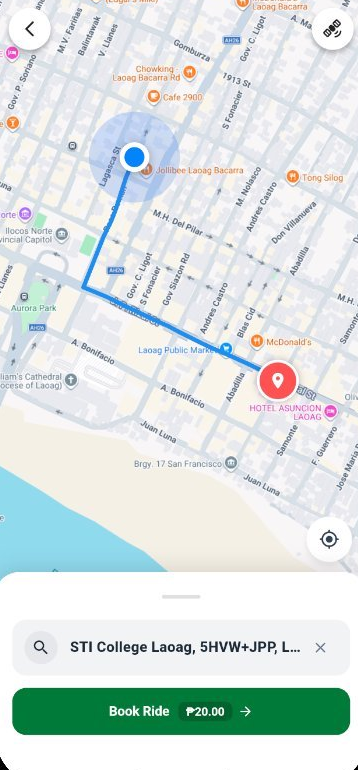
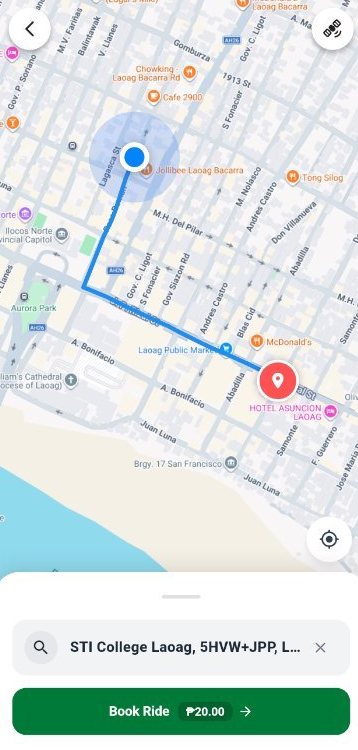
fix(onboarding): match Joyride Image 2 exact downward scoop curve, open-bottom phone submerged into white sheet, and clean edge-to-edge screens

diff --git a/mobile_client/lib/features/auth/views/welcome_onboarding_screen.dart b/mobile_client/lib/features/auth/views/welcome_onboarding_screen.dart
@@ -73,11 +73,12 @@ class _WelcomeOnboardingScreenState extends State<WelcomeOnboardingScreen> {
     final screenHeight = mediaQuery.size.height;
     final screenWidth = mediaQuery.size.width;
 
-    // Upward Dome Sheet height takes ~48-50% of the screen
-    final bottomSheetHeight = math.min(screenHeight * 0.49, 440.0);
-    // Phone mockup height extends down to overlap with the bottom sheet
-    final phoneHeight = math.min(screenHeight * 0.54, 490.0);
-    final phoneWidth = math.min(screenWidth * 0.86, 360.0);
+    // White bottom sheet takes ~50% of the screen height
+    final bottomSheetHeight = math.min(screenHeight * 0.50, 450.0);
+    // Phone mockup width is ~76% of screen width (matching Joyride 1:1)
+    final phoneWidth = math.min(screenWidth * 0.76, 320.0);
+    // Phone mockup extends downward behind the white scooped curve
+    final phoneHeight = math.min(screenHeight * 0.58, 510.0);
 
     return AnnotatedRegion<SystemUiOverlayStyle>(
       value: const SystemUiOverlayStyle(
@@ -89,9 +90,9 @@ class _WelcomeOnboardingScreenState extends State<WelcomeOnboardingScreen> {
         backgroundColor: _primaryGreen,
         body: Stack(
           children: [
-            // 1. Phone Mockup Layer (Positioned high, wide, dipping into the bottom sheet)
+            // 1. Phone Mockup Layer (Top hero, submerged into the white container)
             Positioned(
-              top: mediaQuery.padding.top + 16,
+              top: mediaQuery.padding.top + 8,
               left: (screenWidth - phoneWidth) / 2,
               width: phoneWidth,
               height: phoneHeight,
@@ -100,20 +101,20 @@ class _WelcomeOnboardingScreenState extends State<WelcomeOnboardingScreen> {
               ),
             ),
 
-            // 2. White Curved Dome Sheet (Arches UP in the center, overlapping the bottom of the phone)
+            // 2. White Container with Downward Dipping Scoop Curve (Joyride Image 2)
             Positioned(
               left: 0,
               right: 0,
               bottom: 0,
               height: bottomSheetHeight,
               child: ClipPath(
-                clipper: const _JoyrideWhiteDomeClipper(),
+                clipper: const _JoyrideWhiteScoopClipper(),
                 child: Container(
                   color: Colors.white,
                   child: SafeArea(
                     top: false,
                     child: Padding(
-                      padding: const EdgeInsets.fromLTRB(28, 42, 28, 20),
+                      padding: const EdgeInsets.fromLTRB(28, 48, 28, 24),
                       child: Column(
                         children: [
                           // PageView Content (Centered Title & Subtitle)
@@ -132,7 +133,7 @@ class _WelcomeOnboardingScreenState extends State<WelcomeOnboardingScreen> {
                                       slide['title']!,
                                       textAlign: TextAlign.center,
                                       style: const TextStyle(
-                                        fontSize: 24,
+                                        fontSize: 23,
                                         fontWeight: FontWeight.w800,
                                         color: _darkHeading,
                                         letterSpacing: -0.5,
@@ -182,14 +183,14 @@ class _WelcomeOnboardingScreenState extends State<WelcomeOnboardingScreen> {
                           ),
                           const SizedBox(height: 24),
 
-                          // Bottom Action Buttons (50/50 split on slides 1 & 2, full-width on slide 3)
+                          // Bottom Action Buttons (Skip & Continue on slides 1 & 2, Let's Get Started on slide 3)
                           if (_currentPage < _slides.length - 1)
                             Row(
                               children: [
                                 // Skip Button (Soft Mint Capsule)
                                 Expanded(
                                   child: SizedBox(
-                                    height: 56,
+                                    height: 54,
                                     child: ElevatedButton(
                                       onPressed: () => _handleNavigation(
                                         startInRegisterMode: false,
@@ -200,7 +201,7 @@ class _WelcomeOnboardingScreenState extends State<WelcomeOnboardingScreen> {
                                         elevation: 0,
                                         shape: RoundedRectangleBorder(
                                           borderRadius:
-                                              BorderRadius.circular(28),
+                                              BorderRadius.circular(27),
                                         ),
                                       ),
                                       child: const Text(
@@ -217,12 +218,12 @@ class _WelcomeOnboardingScreenState extends State<WelcomeOnboardingScreen> {
                                 // Continue Button (Vibrant Emerald Capsule)
                                 Expanded(
                                   child: SizedBox(
-                                    height: 56,
+                                    height: 54,
                                     child: ElevatedButton(
                                       onPressed: () {
                                         _pageController.nextPage(
                                           duration:
-                                              const Duration(milliseconds: 320),
+                                              const Duration(milliseconds: 300),
                                           curve: Curves.easeOutCubic,
                                         );
                                       },
@@ -232,7 +233,7 @@ class _WelcomeOnboardingScreenState extends State<WelcomeOnboardingScreen> {
                                         elevation: 0,
                                         shape: RoundedRectangleBorder(
                                           borderRadius:
-                                              BorderRadius.circular(28),
+                                              BorderRadius.circular(27),
                                         ),
                                       ),
                                       child: const Text(
@@ -251,7 +252,7 @@ class _WelcomeOnboardingScreenState extends State<WelcomeOnboardingScreen> {
                             // Full-width "Let's Get Started"
                             SizedBox(
                               width: double.infinity,
-                              height: 56,
+                              height: 54,
                               child: ElevatedButton(
                                 onPressed: () => _handleNavigation(
                                   startInRegisterMode: true,
@@ -261,7 +262,7 @@ class _WelcomeOnboardingScreenState extends State<WelcomeOnboardingScreen> {
                                   foregroundColor: Colors.white,
                                   elevation: 0,
                                   shape: RoundedRectangleBorder(
-                                    borderRadius: BorderRadius.circular(28),
+                                    borderRadius: BorderRadius.circular(27),
                                   ),
                                 ),
                                 child: const Text(
@@ -288,24 +289,25 @@ class _WelcomeOnboardingScreenState extends State<WelcomeOnboardingScreen> {
 }
 
 // ---------------------------------------------------------------------------
-// White Dome Clipper (Arches UP in the center by 45dp, exactly like Joyride)
+// White Scoop Clipper (Dips DOWN in the center, matching Joyride Image 2)
 // ---------------------------------------------------------------------------
-class _JoyrideWhiteDomeClipper extends CustomClipper<Path> {
-  const _JoyrideWhiteDomeClipper();
+class _JoyrideWhiteScoopClipper extends CustomClipper<Path> {
+  const _JoyrideWhiteScoopClipper();
 
   @override
   Path getClip(Size size) {
     final path = Path();
-    const archRise = 42.0;
+    // Boundary curve dips down in the center by ~30dp
+    const curveDip = 30.0;
 
-    // Start on the left edge at y = archRise
-    path.moveTo(0, archRise);
-    // Smooth convex quadratic curve reaching UP to y = 0 at the center
+    // Top-left starts at y = 0
+    path.moveTo(0, 0);
+    // Smooth concave curve dipping down to (width/2, curveDip) at the center
     path.quadraticBezierTo(
       size.width / 2,
-      0,
+      curveDip * 2,
       size.width,
-      archRise,
+      0,
     );
     // Complete the bottom rectangle
     path.lineTo(size.width, size.height);
@@ -319,7 +321,7 @@ class _JoyrideWhiteDomeClipper extends CustomClipper<Path> {
 }
 
 // ---------------------------------------------------------------------------
-// Immersive Phone Chassis (Full-Bleed Screen Content inside iPhone Frame)
+// Immersive Phone Chassis (Pure UI edge-to-edge inside iPhone Frame)
 // ---------------------------------------------------------------------------
 class _ImmersiveJoyridePhone extends StatelessWidget {
   final int currentPage;
@@ -330,28 +332,27 @@ class _ImmersiveJoyridePhone extends StatelessWidget {
   Widget build(BuildContext context) {
     return Container(
       decoration: BoxDecoration(
-        color: const Color(0xFF141416), // Sleek black chassis
-        borderRadius: BorderRadius.circular(42),
-        border: Border.all(color: const Color(0xFF27272A), width: 3.8),
+        color: const Color(0xFF18181B), // Dark chassis
+        borderRadius: const BorderRadius.vertical(top: Radius.circular(38)),
         boxShadow: [
           BoxShadow(
-            color: Colors.black.withValues(alpha: 0.35),
-            blurRadius: 28,
-            offset: const Offset(0, 14),
+            color: Colors.black.withValues(alpha: 0.22),
+            blurRadius: 24,
+            offset: const Offset(0, 8),
           ),
         ],
       ),
-      padding: const EdgeInsets.all(4.5),
+      padding: const EdgeInsets.fromLTRB(4.5, 4.5, 4.5, 0),
       child: ClipRRect(
-        borderRadius: BorderRadius.circular(38),
+        borderRadius: const BorderRadius.vertical(top: Radius.circular(34)),
         child: Container(
           color: Colors.white,
           child: Stack(
             children: [
-              // 1. Full-Bleed App Screen Image (NO phone inside phone, 100% clean UI)
+              // 1. Full-Bleed App Screen Image (Clean UI, no outer phone chassis)
               Positioned.fill(
                 child: AnimatedSwitcher(
-                  duration: const Duration(milliseconds: 280),
+                  duration: const Duration(milliseconds: 250),
                   child: _buildScreenContent(currentPage),
                 ),
               ),
@@ -363,8 +364,8 @@ class _ImmersiveJoyridePhone extends StatelessWidget {
                 right: 0,
                 child: Center(
                   child: Container(
-                    width: 72,
-                    height: 16,
+                    width: 66,
+                    height: 15,
                     decoration: BoxDecoration(
                       color: Colors.black,
                       borderRadius: BorderRadius.circular(8),
@@ -373,7 +374,7 @@ class _ImmersiveJoyridePhone extends StatelessWidget {
                       mainAxisAlignment: MainAxisAlignment.end,
                       children: [
                         Container(
-                          margin: const EdgeInsets.only(right: 8),
+                          margin: const EdgeInsets.only(right: 6),
                           width: 5,
                           height: 5,
                           decoration: const BoxDecoration(
